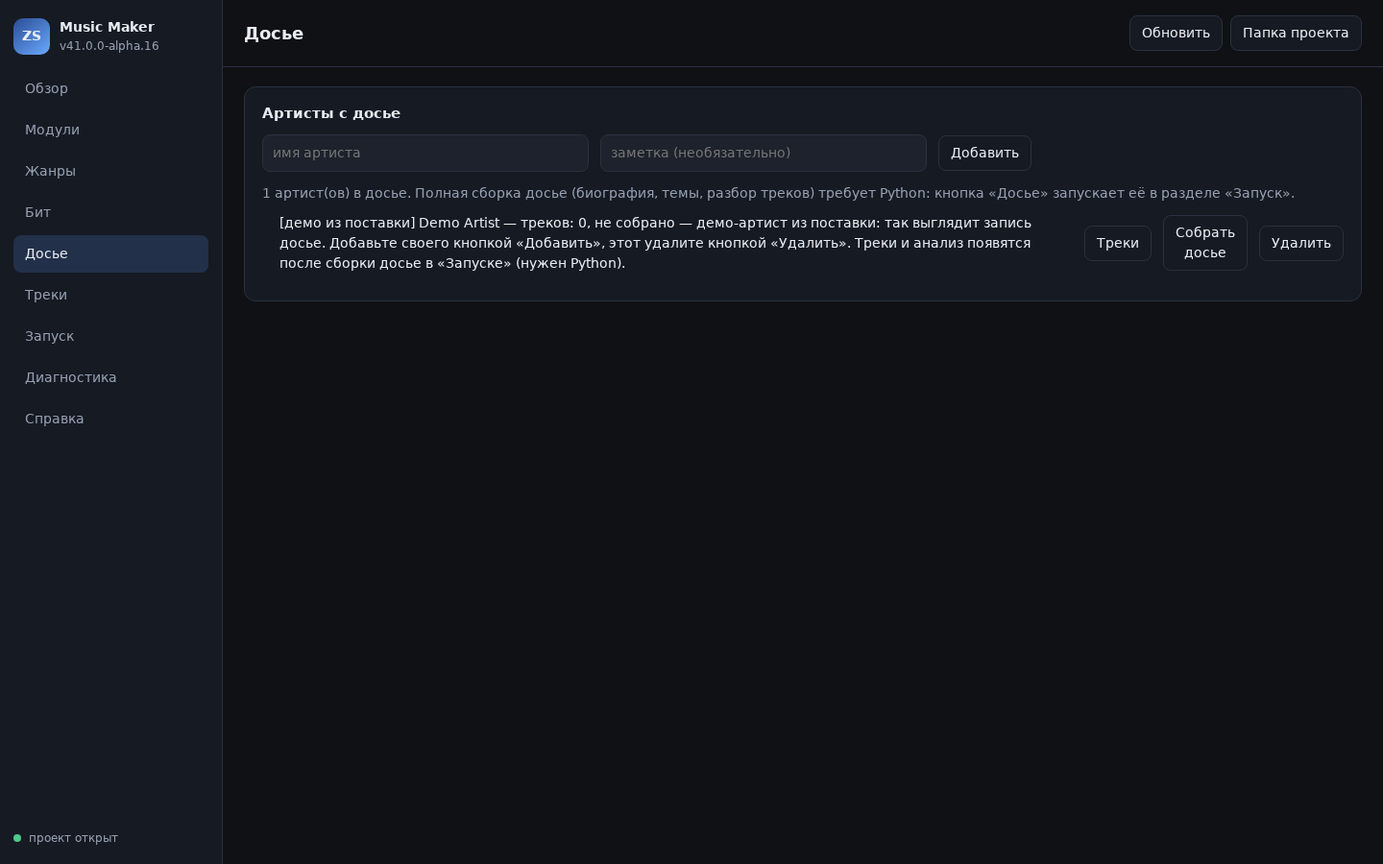
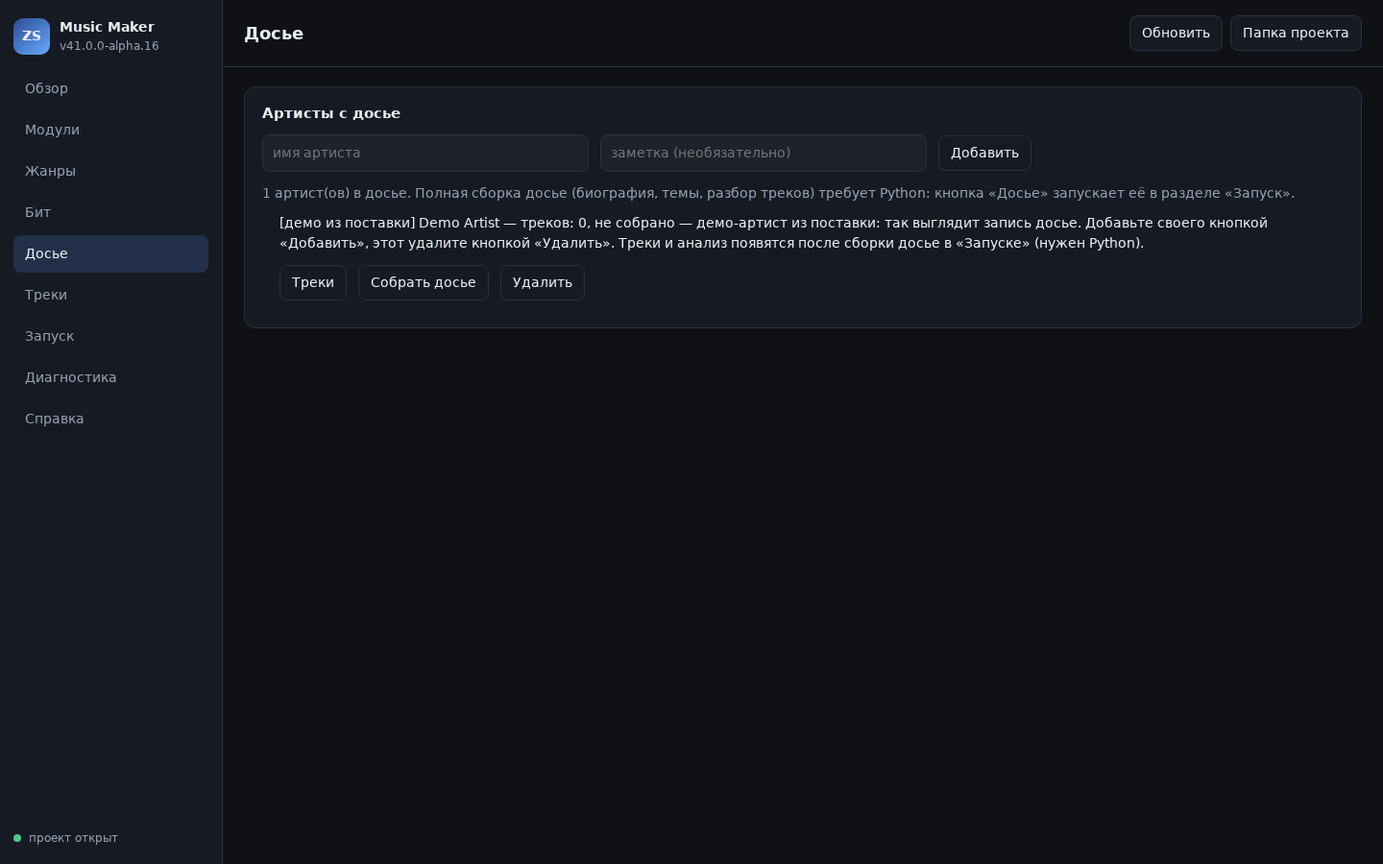
Доступность окна и вёрстка тесных рядов
Окно живёт в Windows 11, где по нему ходят Tab и читают Narrator. Поля
были названы только подсказкой (placeholder исчезает при вводе и
диктором не читается), сообщения об отказе появлялись молча.

- aria-label у всех 19 полей, role=alert у баннера ошибки,
  role=status + aria-live=polite у строк состояния «Бит», «Треки»,
  «Запуск» и статуса записи.
- :focus-visible (рамка 2px) и prefers-reduced-motion в стилях.
- Вёрстка: девять элементов в строку в «Бите» сжимались до одной буквы
  в строке; список задач забирал всю строку и обрезал подсказки соседних
  полей. Кнопки и подписи больше не сжимаются, поля тянутся, ряды
  переносятся, результат рендера и сохранение дубля — отдельными
  строками.
- Скриншоты разделов пересняты (тот же Chromium, pageErrors: []).

Тестов 415 (ui-contract +3: имена полей, живые области, фокус и
движение), honesty и dead-imports чистые.

Changed region(s): [[0.1875, 0.2489, 0.9688, 0.3422]]

diff --git a/desktop/src/index.html b/desktop/src/index.html
@@ -20,7 +20,7 @@
             <div class="brand-version" id="version">—</div>
           </div>
         </div>
-        <nav class="nav" id="nav">
+        <nav class="nav" id="nav" aria-label="Разделы">
           <button class="nav-item is-active" data-view="overview">Обзор</button>
           <button class="nav-item" data-view="modules">Модули</button>
           <button class="nav-item" data-view="genres">Жанры</button>
@@ -60,7 +60,7 @@
             <h2>Модули проекта</h2>
             <p class="muted" id="modules-summary">Загрузка…</p>
             <div class="row">
-              <input id="module-filter" placeholder="Фильтр по пути модуля" />
+              <input id="module-filter" aria-label="Фильтр модулей по пути" placeholder="Фильтр по пути модуля" />
               <span class="muted" id="modules-found"></span>
             </div>
             <div class="table-wrap">
@@ -85,7 +85,7 @@
             <h2>Жанры</h2>
             <p class="muted" id="genres-summary">Загрузка…</p>
             <div class="row">
-              <input id="genre-filter" placeholder="Фильтр по названию или категории" />
+              <input id="genre-filter" aria-label="Фильтр жанров по названию или категории" placeholder="Фильтр по названию или категории" />
               <span class="muted" id="genre-count"></span>
             </div>
             <ul class="chips" id="genre-list"></ul>
@@ -101,13 +101,17 @@
               синтезируются и статус честно становится <code>FALLBACK</code>.
             </p>
             <div class="row">
-              <input id="beat-genre" placeholder="жанр (phonk, trap, house…)" value="phonk" />
-              <input id="beat-bpm" placeholder="BPM" value="140" />
-              <input id="beat-seed" placeholder="сид" value="7" />
-              <input id="beat-duration" placeholder="секунд" value="20" />
+              <input id="beat-genre" aria-label="Жанр бита" placeholder="жанр (phonk, trap, house…)" value="phonk" />
+              <input id="beat-bpm" aria-label="Темп в BPM, от 40 до 220" inputmode="numeric" placeholder="BPM" value="140" />
+              <input id="beat-seed" aria-label="Сид: одинаковый сид даёт тот же бит" inputmode="numeric" placeholder="сид" value="7" />
+              <input id="beat-duration" aria-label="Длительность в секундах" inputmode="numeric" placeholder="секунд" value="20" />
+              <label class="muted check"><input type="checkbox" id="beat-use-bank" checked /> банк сэмплов</label>
               <button class="ghost" id="beat-render">Собрать бит</button>
               <button class="ghost" id="beat-cancel" disabled>Отменить</button>
-              <label class="muted"><input type="checkbox" id="beat-use-bank" checked /> банк сэмплов</label>
+            </div>
+            <!-- Результат — отдельным рядом: девять элементов в одну строку
+                 сжимались так, что «банк сэмплов» ломался по слогам. -->
+            <div class="row">
               <button class="ghost" id="beat-save" disabled>Сохранить WAV</button>
               <button class="ghost" id="beat-open" disabled>Открыть в плеере</button>
               <button class="ghost" id="beat-copy" disabled>Сохранить отчёт</button>
@@ -122,25 +126,29 @@
                 имитация и никогда не выдаётся за запись с микрофона.
               </p>
               <div class="row">
-                <select id="vocal-mode">
+                <select id="vocal-mode" aria-label="Источник вокала">
                   <option value="none">без вокала</option>
                   <option value="synth">синтез голоса</option>
                   <option value="test">тестовый дубль (имитация входа)</option>
                   <option value="file">WAV-файл с диска</option>
                   <option value="record">запись с микрофона</option>
                 </select>
-                <input id="vocal-text" placeholder="текст строки" value="я читаю твой трек наизусть" />
-                <input id="vocal-gain" placeholder="уровень 0…1" value="0.5" />
+                <input id="vocal-text" aria-label="Текст вокальной строки" placeholder="текст строки" value="я читаю твой трек наизусть" />
+                <input id="vocal-gain" aria-label="Уровень вокала в миксе, от 0 до 1" placeholder="уровень 0…1" value="0.5" />
                 <button class="ghost" id="vocal-pick" disabled>Выбрать WAV…</button>
                 <button class="ghost" id="vocal-record" disabled>Записать дубль</button>
                 <button class="ghost" id="vocal-stop" disabled>Остановить запись</button>
-                <span class="muted" id="vocal-record-status"></span>
+                <span class="muted" id="vocal-record-status" role="status" aria-live="polite"></span>
+              </div>
+              <!-- Сохранение дубля — отдельной строкой: в общем ряду кнопка
+                   уезжала вниз и читалась как часть записи. -->
+              <div class="row">
                 <button class="ghost" id="vocal-save" disabled>Сохранить дубль как WAV</button>
               </div>
               <p class="muted" id="vocal-note">Вокал выключен: трек будет без голоса.</p>
             </fieldset>
-            <p class="muted" id="beat-status">Бит ещё не собран</p>
-            <audio id="beat-audio" controls class="is-hidden"></audio>
+            <p class="muted" id="beat-status" role="status" aria-live="polite">Бит ещё не собран</p>
+            <audio id="beat-audio" aria-label="Прослушать собранный бит" controls class="is-hidden"></audio>
             <div class="table-wrap">
               <table>
                 <thead>
@@ -163,8 +171,8 @@
           <div class="panel">
             <h2>Артисты с досье</h2>
             <div class="row">
-              <input id="dossier-name" placeholder="имя артиста" />
-              <input id="dossier-note" placeholder="заметка (необязательно)" />
+              <input id="dossier-name" aria-label="Имя артиста" placeholder="имя артиста" />
+              <input id="dossier-note" aria-label="Заметка об артисте" placeholder="заметка (необязательно)" />
               <button class="ghost" id="dossier-add">Добавить</button>
             </div>
             <p class="muted" id="dossier-empty">Загрузка…</p>
@@ -181,15 +189,15 @@
               до этого статус трека честно «не разобран».
             </p>
             <div class="row">
-              <select id="tracks-artist"></select>
-              <input id="tracks-title" placeholder="название трека" />
-              <input id="tracks-url" placeholder="ссылка (необязательно)" />
+              <select id="tracks-artist" aria-label="Артист, чьи треки показаны"></select>
+              <input id="tracks-title" aria-label="Название трека" placeholder="название трека" />
+              <input id="tracks-url" aria-label="Ссылка на трек" placeholder="ссылка (необязательно)" />
               <button class="ghost" id="tracks-add">Добавить трек</button>
             </div>
             <div class="row">
-              <textarea id="tracks-lyrics" rows="4" placeholder="текст трека (необязательно)"></textarea>
+              <textarea id="tracks-lyrics" rows="4" aria-label="Текст трека" placeholder="текст трека (необязательно)"></textarea>
             </div>
-            <p class="muted" id="tracks-status">Треков пока нет</p>
+            <p class="muted" id="tracks-status" role="status" aria-live="polite">Треков пока нет</p>
             <ul class="list" id="tracks-list"></ul>
           </div>
         </section>
@@ -202,15 +210,15 @@
               Вывод показывается построчно; остановка завершает процесс.
             </p>
             <div class="row">
-              <select id="task-select"></select>
-              <input id="task-genre" placeholder="жанр (например drift_phonk)" />
-              <input id="task-seed" placeholder="сид (необязательно)" />
-              <input id="task-artist" placeholder="артист (для досье)" />
+              <select id="task-select" aria-label="Какую задачу запустить"></select>
+              <input id="task-genre" aria-label="Жанр для задачи" placeholder="жанр (например drift_phonk)" />
+              <input id="task-seed" aria-label="Сид для задачи" placeholder="сид (необязательно)" />
+              <input id="task-artist" aria-label="Артист для задачи досье" placeholder="артист (для досье)" />
               <button class="ghost" id="task-start">Запустить</button>
               <button class="ghost" id="task-stop" disabled>Остановить</button>
             </div>
             <p class="muted" id="task-python-note">Проверяю Python…</p>
-            <p class="muted" id="task-status">Задача не запущена</p>
+            <p class="muted" id="task-status" role="status" aria-live="polite">Задача не запущена</p>
             <pre class="output" id="task-output"></pre>
           </div>
         </section>
@@ -246,7 +254,7 @@
           <div id="help-body"></div>
         </section>
 
-        <div class="banner is-hidden" id="error-banner"></div>
+        <div class="banner is-hidden" id="error-banner" role="alert" aria-live="assertive"></div>
       </main>
     </div>
     <!--

diff --git a/desktop/test/ui-contract.test.js b/desktop/test/ui-contract.test.js
@@ -267,3 +267,37 @@ test('меню приложения не отдаёт «перезагрузит
   const devRoles = menuTemplate({ isDev: true }).flatMap((item) => (item.submenu || []).map((sub) => sub.role));
   assert.ok(devRoles.includes('reload') && devRoles.includes('toggleDevTools'));
 });
+
+test('каждое поле ввода названо словами, а не только подсказкой', () => {
+  // Placeholder исчезает при вводе, и Narrator в Windows 11 читает поле как
+  // «поле ввода» без имени. У всех полей должна быть подпись.
+  const fields = html.match(/<(input|select|textarea)\b[^>]*>/g) || [];
+  const nameless = fields.filter((tag) => {
+    if (/type="checkbox"/.test(tag)) return false;
+    return !/aria-label=/.test(tag) && !/aria-labelledby=/.test(tag) && !/\bid="[^"]+"/.test(tag.replace(/aria-label[^>]*/, ''));
+  });
+  assert.deepEqual(nameless, [], 'поля без доступного имени');
+  const labelled = fields.filter((tag) => /aria-label=/.test(tag));
+  // Минус флажок «банк сэмплов»: он подписан текстом в <label>.
+  assert.equal(labelled.length, fields.length - 1, 'имя должно быть у каждого поля, а не у половины');
+  // Флажок «банк сэмплов» подписан текстом внутри <label> — это допустимо.
+  assert.match(html, /<label class="muted check"><input type="checkbox" id="beat-use-bank"/);
+});
+
+test('сообщения об ошибке и о ходе работы объявлены живыми областями', () => {
+  // Иначе человек с экранным диктором не узнает, что нажатие привело к
+  // отказу: баннер появляется молча.
+  assert.match(html, /id="error-banner"[^>]*role="alert"/);
+  for (const id of ['beat-status', 'tracks-status', 'task-status']) {
+    const tag = (html.match(new RegExp(`<[^>]*id="${id}"[^>]*>`)) || [])[0] || '';
+    assert.match(tag, /role="status"/, `${id} должен объявлять изменения`);
+    assert.match(tag, /aria-live="polite"/, `${id} должен быть вежливой живой областью`);
+  }
+});
+
+test('фокус клавиатуры виден, движение отключаемо', () => {
+  const css = fs.readFileSync(path.join(SRC, 'styles.css'), 'utf8');
+  assert.match(css, /:focus-visible/, 'без видимой рамки фокуса Tab теряется');
+  assert.match(css, /outline:\s*2px/, 'рамка фокуса должна быть видимой');
+  assert.match(css, /prefers-reduced-motion/, 'анимация должна отключаться по настройке системы');
+});

diff --git a/desktop/src/styles.css b/desktop/src/styles.css
@@ -356,9 +356,40 @@ input {
 
 .row {
   display: flex;
+  flex-wrap: wrap;
   gap: 12px;
   align-items: center;
   margin-bottom: 12px;
+}
+
+/* Кнопки и подписи не сжимаются по слогам: в тесном ряду flex сужал их до
+   одной буквы в строке («банк / сэмплов» столбиком). Тянутся только поля. */
+.row > button,
+.row > label {
+  flex: 0 0 auto;
+  white-space: nowrap;
+}
+
+/* Список задач содержит длинные подписи и раньше забирал всю строку: поля
+   рядом сжимались, и подсказка обрывалась на середине. Даём списку предел,
+   а остальное отдаём полям. */
+.row > select {
+  flex: 0 1 320px;
+  min-width: 160px;
+}
+
+.row > input {
+  flex: 1 1 140px;
+  min-width: 120px;
+}
+
+/* Флажок с подписью — одна строка, а не два блока друг под другом. */
+.check {
+  display: inline-flex;
+  align-items: center;
+  gap: 8px;
+  white-space: nowrap;
+  cursor: pointer;
 }
 
 .fieldset {
@@ -430,4 +461,26 @@ code {
 #task-genre,
 #task-seed {
   max-width: 220px;
+}
+
+/* ---- доступность ----
+   Окно живёт в Windows 11, где человек может ходить по нему Tab и читать
+   экран Narrator. Без видимой рамки фокуса клавиатура «теряется»: не видно,
+   где ты. `:focus-visible` — чтобы мышью рамка не мигала на каждой кнопке. */
+button:focus-visible,
+input:focus-visible,
+select:focus-visible,
+textarea:focus-visible,
+[tabindex]:focus-visible {
+  outline: 2px solid #6aa9ff;
+  outline-offset: 2px;
+  border-radius: 8px;
+}
+
+/* Меньше движения для тех, кому анимация мешает. */
+@media (prefers-reduced-motion: reduce) {
+  * {
+    transition-duration: 0.01ms !important;
+    animation-duration: 0.01ms !important;
+  }
 }

diff --git a/docs/ARCHITECTURE.md b/docs/ARCHITECTURE.md
@@ -212,7 +212,7 @@ loop, и отдаёт стадии списком `AsyncStage`. Раньше у 
 | `python tools/ast_dead_imports.py` | мёртвые импорты |
 | `python tools/ast_undefined_names.py` | имена, использующиеся без определения (`NameError`) |
 | `python -m tools.readiness` | честный процент готовности + матрица модулей |
-| `cd desktop && npm test` | 412 теста оболочки на Electron: каталог, готовность, задачи, рендер окна в DOM-двойнике, аудио-движок (фильтры против чисел scipy, детерминизм seed, WAV, сэмпловый банк, замеры «формульности», пошаговый рендер), пути установленного приложения, рендер в worker, настройки, описание сборки Windows, политика окна (AppUserModelId, единственный экземпляр, меню), вокал (формантный синтез с измерением формант и попадания в ноту, мелодия по тональности, тестовые дубли и проверка честности источника), запись с симулированного входа (сигнал → PCM → WAV → чтение обратно), подпись кода (конфигурация из секретов и проверка Authenticode), правка досье без Python, общая область видимости скриптов окна (как в браузере) — пакет `electron` не нужен |
+| `cd desktop && npm test` | 415 тестов оболочки на Electron: каталог, готовность, задачи, рендер окна в DOM-двойнике, аудио-движок (фильтры против чисел scipy, детерминизм seed, WAV, сэмпловый банк, замеры «формульности», пошаговый рендер), пути установленного приложения, рендер в worker, настройки, описание сборки Windows, политика окна (AppUserModelId, единственный экземпляр, меню), вокал (формантный синтез с измерением формант и попадания в ноту, мелодия по тональности, тестовые дубли и проверка честности источника), запись с симулированного входа (сигнал → PCM → WAV → чтение обратно), подпись кода (конфигурация из секретов и проверка Authenticode), правка досье без Python, общая область видимости скриптов окна (как в браузере) — пакет `electron` не нужен |
 | `python -m pytest tests/test_desktop_audio_port.py` | сверка JS-таблиц ритма и акцентов с `modules/beat/patterns.py`, проекция 120 жанров, чтение готового WAV через `soundfile` |
 | `cd desktop && npm run snapshot` | снимок чисел через штатный Python-инструмент → `data/desktop/` |
 | `python -m pytest tests/test_desktop_shell.py` | сверка расчёта готовности в JS с эталоном Python |

diff --git a/CHANGELOG.md b/CHANGELOG.md
@@ -1,5 +1,21 @@
 # CHANGELOG
 
+## Доступность и вёрстка тесных рядов
+
+Окно живёт в Windows 11, где по нему ходят Tab и читают Narrator. Поля ввода
+были названы только подсказкой (`placeholder`), а она исчезает при вводе и
+экранным диктором как имя не читается; сообщения об отказе и о ходе работы
+появлялись молча. Теперь у всех полей `aria-label`, у баннера `role="alert"`,
+у трёх строк состояния `role="status" aria-live="polite"`, а фокус клавиатуры
+виден (`:focus-visible`, рамка 2px) и анимация отключается по
+`prefers-reduced-motion`. Проверки — в `ui-contract`.
+
+Вёрстка: девять элементов в одну строку раздела «Бит» сжимались до одной
+буквы в строке (чекбокс ломался по слогам, кнопки — в столбик); список задач
+в «Запуске» забирал всю строку и обрезал подсказки соседних полей. Теперь
+кнопки и подписи не сжимаются, поля тянутся, ряды переносятся, а результат
+рендера и сохранение дубля стоят отдельными строками.
+
 ## Трек можно удалить из окна
 
 Трек заводят руками, и опечатка в названии — обычное дело. До этого исправить
@@ -45,7 +61,7 @@
   итог, как главный процесс Electron.
 
 Проверка не оставляет следов: каталог данных подменяется копией
-(`ZSMM_PREVIEW_DATA=/tmp/…`). Тестов стало 412.
+(`ZSMM_PREVIEW_DATA=/tmp/…`). Тестов стало 415.
 
 > Актуальная версия: **41.0.0-alpha.16** (2026-11-03). План рефакторинга —
 > `docs/ROADMAP.md`, состояние — `PROJECT_STATE.md`.
@@ -90,7 +106,7 @@
 баннер ошибки, ошибки страницы). Результат лежит в `docs/screenshots/` и
 подключён в README: 1440×900, разделы Обзор / Модули / Жанры / Бит / Досье /
 Треки / Запуск / Диагностика / Справка, баннеров нет, ошибок страницы нет.
-Тестов стало 412.
+Тестов стало 415.
 
 ## Синтез вокала: измеренные форманты, попадание в ноту, подпись кода
 

diff --git a/desktop/README.md b/desktop/README.md
@@ -68,7 +68,7 @@ desktop/
 │           └── bank.js         сэмпловый банк: манифест, лицензии, round-robin
 ├── scripts/
 │   └── snapshot-readiness.js  снимок чисел через штатный Python-инструмент
-└── test/             412 тестов на `node --test`, без графической среды
+└── test/             415 тестов на `node --test`, без графической среды
 ```
 
 ## Запуск
@@ -401,6 +401,13 @@ Python: название, ссылка и текст сохраняются ка
   999px и кнопку, вылезающую за край. Плюс мелочь: у артиста без треков
   `listTracks` отдавал `ENOENT` как ошибку чтения, и окно вешало красный
   баннер на каждом свежем досье.
+- **Доступность окна проверена правилами, а не на глаз.** У всех полей есть
+  `aria-label` (подсказка `placeholder` исчезает при вводе и диктором не
+  читается), баннер ошибки — `role="alert"`, строки состояния — `role="status"
+  aria-live="polite"`, фокус клавиатуры виден (`:focus-visible`), анимация
+  отключается по `prefers-reduced-motion`. Плюс вёрстка тесных рядов: кнопки и
+  подписи не сжимаются по слогам, поля тянутся, ряды переносятся. Эти три
+  правила проверяет `test/ui-contract.test.js`.
 - **Сценарии действий проверены в браузере, а не только «видно».** Тот же
   headless Chromium прогоняет `scripts/window-e2e.js` (12 шагов): собрать бит,
   дождаться отчёта, проверить, что плеер принимает готовый WAV и играет его

diff --git a/README.md b/README.md
@@ -67,7 +67,7 @@ cd desktop
 npm install
 npm start              :: окно
 npm run snapshot       :: обновить снимок чисел (нужен Python)
-npm test               :: 412 теста оболочки и аудио-движка, графика не нужна
+npm test               :: 415 тестов оболочки и аудио-движка, графика не нужна
 npm run preview        :: посмотреть окно в браузере
 npm run screenshots    :: снять скриншоты всех разделов (нужен Chromium)
 npm run e2e            :: прогнать действия в окне: бит, вокал, досье, трек, задача
